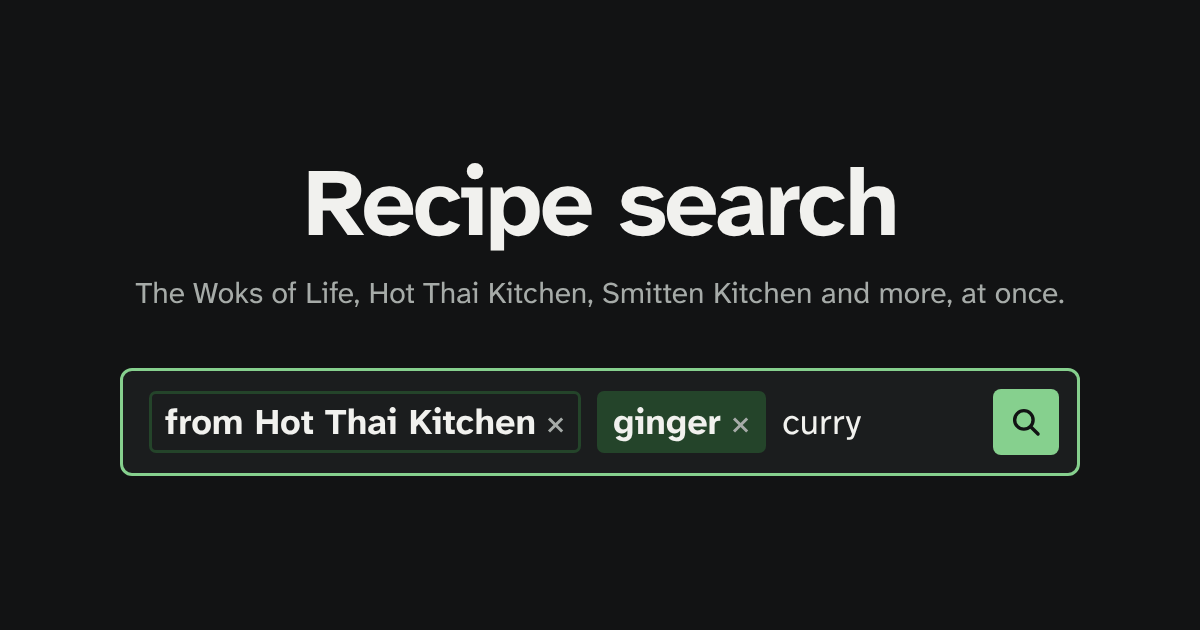
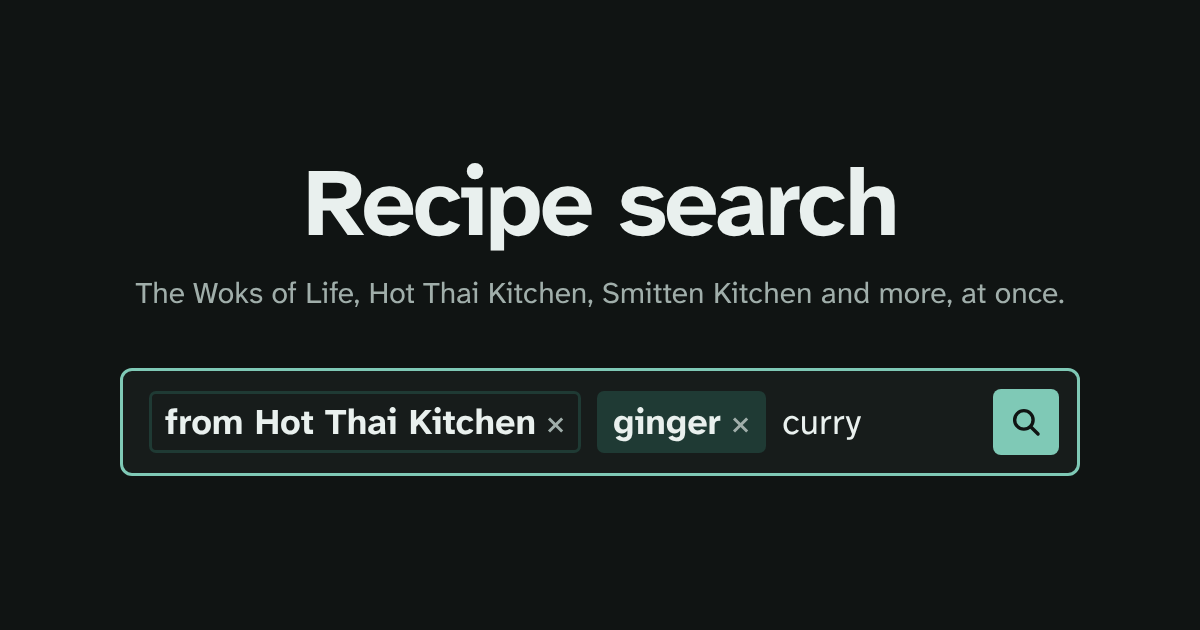
Colors: nori, a deep seaweed green on cool off-white
Kyle's pick of three directions. Share cards redrawn in the new dark values.

Claude-Session: https://claude.ai/code/session_015KDcQFxviV9wsAXWb9bgU5

Changed region(s): [[0.0925, 0.573, 0.8942, 0.754]]

diff --git a/design/og.html b/design/og.html
@@ -5,18 +5,18 @@
 @font-face{font-family:A;font-weight:400;src:url("../node_modules/@fontsource/atkinson-hyperlegible-next/files/atkinson-hyperlegible-next-latin-400-normal.woff2")}
 @font-face{font-family:A;font-weight:700;src:url("../node_modules/@fontsource/atkinson-hyperlegible-next/files/atkinson-hyperlegible-next-latin-700-normal.woff2")}
 html,body{margin:0}
-body{width:1200px;height:630px;background:#121314;color:#f1f1ee;font-family:A;overflow:hidden;box-sizing:border-box;padding:64px 96px;display:flex;flex-direction:column;align-items:center;justify-content:center;text-align:center}
+body{width:1200px;height:630px;background:#101413;color:#e9f0ee;font-family:A;overflow:hidden;box-sizing:border-box;padding:64px 96px;display:flex;flex-direction:column;align-items:center;justify-content:center;text-align:center}
 .name{font-size:96px;font-weight:700;letter-spacing:-0.03em;line-height:1;margin:0}
-.from{font-size:30px;color:#a6aba8;margin:22px 0 0}
-.box{margin-top:56px;width:960px;box-sizing:border-box;display:flex;align-items:center;gap:16px;padding:18px 18px 18px 26px;border:3px solid #86d08e;border-radius:12px;background:#1b1d1e;font-size:36px;text-align:left}
-.tag{font-weight:700;background:#24442a;border-radius:7px;padding:8px 16px}
-.creator{background:none;box-shadow:inset 0 0 0 3px #24442a}
-.x{color:#a6aba8;font-weight:400;margin-left:10px}
+.from{font-size:30px;color:#a0aeaa;margin:22px 0 0}
+.box{margin-top:56px;width:960px;box-sizing:border-box;display:flex;align-items:center;gap:16px;padding:18px 18px 18px 26px;border:3px solid #7fc9b6;border-radius:12px;background:#171c1b;font-size:36px;text-align:left}
+.tag{font-weight:700;background:#1f3a34;border-radius:7px;padding:8px 16px}
+.creator{background:none;box-shadow:inset 0 0 0 3px #1f3a34}
+.x{color:#a0aeaa;font-weight:400;margin-left:10px}
 .text{flex:1}
-.go{width:66px;height:66px;border-radius:8px;background:#86d08e;display:grid;place-items:center}
+.go{width:66px;height:66px;border-radius:8px;background:#7fc9b6;display:grid;place-items:center}
 </style></head><body>
 <p class="name">Recipe search</p>
 <p class="from">The Woks of Life, Hot Thai Kitchen, Smitten Kitchen and more, at once.</p>
 <div class="box"><span class="tag creator">from Hot Thai Kitchen<span class="x">×</span></span><span class="tag">ginger<span class="x">×</span></span><span class="text">curry</span>
-<span class="go"><svg viewBox="0 0 24 24" width="34" height="34"><circle cx="10.5" cy="10.5" r="6.5" fill="none" stroke="#121314" stroke-width="2.4"/><path d="m15.5 15.5 5 5" stroke="#121314" stroke-width="2.4" stroke-linecap="round"/></svg></span></div>
+<span class="go"><svg viewBox="0 0 24 24" width="34" height="34"><circle cx="10.5" cy="10.5" r="6.5" fill="none" stroke="#101413" stroke-width="2.4"/><path d="m15.5 15.5 5 5" stroke="#101413" stroke-width="2.4" stroke-linecap="round"/></svg></span></div>
 </body></html>

diff --git a/src/styles/theme.css b/src/styles/theme.css
@@ -1,19 +1,20 @@
 /*
   Recipe search's own look (design/PLAN.md). It's a standalone lab, so it takes
-  kp-design's tokens and makes them its own: rice-white or near-black, soy-dark text,
-  scallion green for the words you add, chili for removing. No other color; the
-  photos bring it. Every text pair meets WCAG AA in light and dark, and the field rule
-  meets 3:1 as a UI boundary.
+  kp-design's tokens and makes them its own: a cool off-white or near-black with a
+  green cast, and one deep seaweed green ("nori", Kyle's pick, 2026-11-08) for
+  links, tags, focus and the search button; chili for removing. No other color; the
+  photos bring it. Every text pair meets WCAG AA in light and dark, and the field
+  rule meets 3:1 as a UI boundary.
 */
 :root {
-  --bg: light-dark(#ffffff, #121314);
-  --bg-raised: light-dark(#ffffff, #1b1d1e);
-  --ink: light-dark(#141414, #f1f1ee);
-  --ink-muted: light-dark(#5d625f, #a6aba8);
-  --line: light-dark(#e4e6e1, #2a2d2b);
-  --field-rule: light-dark(#8a908c, #6e7471);
-  --accent: #3a9a46;
-  --accent-ink: light-dark(#2c7a36, #86d08e);
-  --scallion-fill: light-dark(#d6efd2, #24442a);
-  --chili: light-dark(#b8261a, #ff8f80);
+  --bg: light-dark(#f7f8f6, #101413);
+  --bg-raised: light-dark(#ffffff, #171c1b);
+  --ink: light-dark(#13201d, #e9f0ee);
+  --ink-muted: light-dark(#566461, #a0aeaa);
+  --line: light-dark(#dfe5e2, #26302e);
+  --field-rule: light-dark(#86948f, #66736f);
+  --accent: #1d6b5a;
+  --accent-ink: light-dark(#1d6b5a, #7fc9b6);
+  --scallion-fill: light-dark(#d9ece6, #1f3a34);
+  --chili: light-dark(#b3261e, #ff8f80);
 }

diff --git a/design/og-about.html b/design/og-about.html
@@ -4,11 +4,11 @@
 @font-face{font-family:A;font-weight:400;src:url("../node_modules/@fontsource/atkinson-hyperlegible-next/files/atkinson-hyperlegible-next-latin-400-normal.woff2")}
 @font-face{font-family:A;font-weight:700;src:url("../node_modules/@fontsource/atkinson-hyperlegible-next/files/atkinson-hyperlegible-next-latin-700-normal.woff2")}
 html,body{margin:0}
-body{width:1200px;height:630px;background:#121314;color:#f1f1ee;font-family:A;overflow:hidden;box-sizing:border-box;padding:0 104px;display:flex;flex-direction:column;justify-content:center}
-.site{font-size:30px;font-weight:700;color:#86d08e;margin:0}
+body{width:1200px;height:630px;background:#101413;color:#e9f0ee;font-family:A;overflow:hidden;box-sizing:border-box;padding:0 104px;display:flex;flex-direction:column;justify-content:center}
+.site{font-size:30px;font-weight:700;color:#7fc9b6;margin:0}
 h1{font-size:88px;letter-spacing:-0.03em;line-height:1.02;margin:28px 0 0}
-p.line{font-size:34px;color:#a6aba8;margin:32px 0 0;max-width:900px;line-height:1.35}
-.names{position:absolute;left:104px;right:104px;bottom:88px;font-size:28px;color:#f1f1ee;border-top:2px solid #2a2d2b;padding-top:26px}
+p.line{font-size:34px;color:#a0aeaa;margin:32px 0 0;max-width:900px;line-height:1.35}
+.names{position:absolute;left:104px;right:104px;bottom:88px;font-size:28px;color:#e9f0ee;border-top:2px solid #26302e;padding-top:26px}
 </style></head><body>
 <p class="site">Recipe search</p>
 <h1>Where the recipes come from</h1>

diff --git a/design/PLAN.md b/design/PLAN.md
@@ -38,14 +38,17 @@ Its own page (`/recipe-search/about/`), built at build time from the index: why 
 
 ## Color
 
+"Nori" (Kyle's pick from three directions, November 8): a cool off-white with a green cast, and one deep seaweed green. The earlier bright scallion green read as odd.
+
 | Name | Light | Dark | Use |
 | --- | --- | --- | --- |
-| Rice | #FFFFFF | #121314 | Page |
-| Soy | #141414 | #F1F1EE | Text |
-| Ash | #5D625F | #A6ABA8 | Secondary text |
-| Scallion | #2C7A36 / fill #D6EFD2 | #86D08E / fill #24442A | Tags, focus, links, the search button |
-| Chili | #B8261A | #FF8F80 | Removing |
-| Shelf | #E4E6E1 | #2A2D2B | Dividers |
+| Page | #F7F8F6 | #101413 | Background |
+| Raised | #FFFFFF | #171C1B | The box, menus |
+| Ink | #13201D | #E9F0EE | Text |
+| Muted | #566461 | #A0AEAA | Secondary text |
+| Nori | #1D6B5A / fill #D9ECE6 | #7FC9B6 / fill #1F3A34 | Tags, focus, links, the search button |
+| Chili | #B3261E | #FF8F80 | Removing |
+| Line | #DFE5E2 | #26302E | Dividers |
 
 No source tints: the photos carry the color.
 
